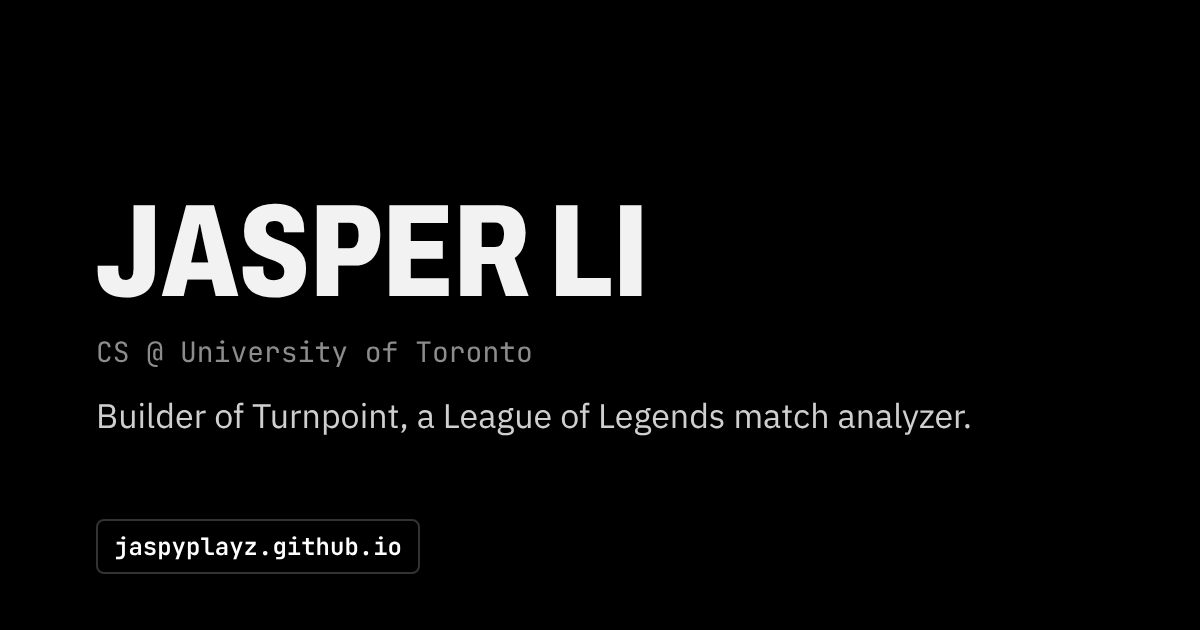
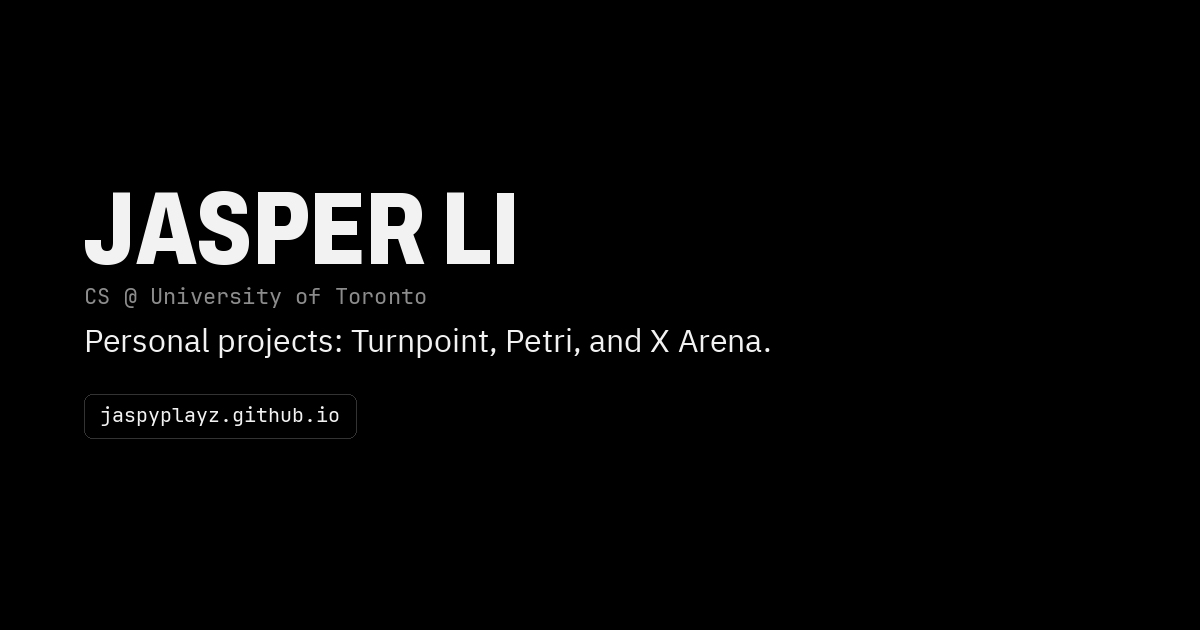
Tighten the portfolio layout and preview text.
Drop the repeated about line and the second GitHub link, show rank notes in the text, and keep one spacing rhythm. The social preview now names Turnpoint, Petri, and X Arena. Remove the unused hero image, which still showed the old match stats.

diff --git a/index.html b/index.html
@@ -11,23 +11,26 @@
 <meta property="og:type" content="website">
 <meta property="og:url" content="https://jaspyplayz.github.io/">
 <meta property="og:title" content="Jasper Li">
-<meta property="og:description" content="CS student at the University of Toronto. Personal projects: Turnpoint, Petri, and X Arena.">
+<meta property="og:description" content="Jasper Li, CS student at the University of Toronto. Personal projects: Turnpoint, Petri, and X Arena.">
 <meta property="og:image" content="https://jaspyplayz.github.io/img/og.png">
 <meta property="og:image:width" content="1200">
 <meta property="og:image:height" content="630">
+<meta property="og:image:alt" content="Jasper Li. Personal projects: Turnpoint, Petri, and X Arena.">
 <meta name="twitter:card" content="summary_large_image">
+<meta name="twitter:title" content="Jasper Li">
+<meta name="twitter:description" content="Jasper Li, CS student at the University of Toronto. Personal projects: Turnpoint, Petri, and X Arena.">
+<meta name="twitter:image" content="https://jaspyplayz.github.io/img/og.png">
 <link rel="preconnect" href="https://fonts.googleapis.com">
 <link rel="preconnect" href="https://fonts.gstatic.com" crossorigin>
 <link rel="stylesheet" href="https://fonts.googleapis.com/css2?family=Archivo:wdth,wght@62..125,400..800&family=IBM+Plex+Sans:wght@400;500;600&family=JetBrains+Mono:wght@400;600&display=swap">
 <style>
-/* All-black, single theme. One narrow column: header, a short bio, personal projects, skills. */
+/* All-black, one narrow column. Name, personal projects, ranks, skills. */
 :root {
   --bg: #000000;
   --surface: #0a0a0a;
   --ink: #f2f2f2;
   --muted: #8c8c8c;
   --line: #1f1f1f;
-  --gold: #ffffff;
   --display: "Archivo", "Arial Narrow", system-ui, sans-serif;
   --body: "IBM Plex Sans", system-ui, -apple-system, "Segoe UI", sans-serif;
   --mono: "JetBrains Mono", ui-monospace, SFMono-Regular, Menlo, monospace;
@@ -37,44 +40,42 @@
 html { color-scheme: dark; }
 body { margin: 0; background: var(--bg); color: var(--ink); font: 400 .95rem/1.55 var(--body); }
 img { max-width: 100%; }
-a { color: inherit; text-decoration-color: var(--gold); text-underline-offset: 3px; }
-a:hover { color: var(--gold); }
-a:focus-visible { outline: 2px solid var(--gold); outline-offset: 3px; border-radius: 4px; }
+a { color: inherit; text-decoration-color: #fff; text-underline-offset: 3px; }
+a:hover { color: #fff; }
+a:focus-visible { outline: 2px solid #fff; outline-offset: 3px; border-radius: 4px; }
 p { margin: 0; }
-h1, h2 { font-family: var(--display); margin: 0; text-wrap: balance; }
+h1, h3 { font-family: var(--display); margin: 0; text-wrap: balance; }
 
-main { max-width: 640px; margin: 0 auto; padding-block: 40px 32px; padding-left: max(16px, env(safe-area-inset-left, 0px)); padding-right: max(16px, env(safe-area-inset-right, 0px)); display: grid; gap: 28px; }
+main {
+  max-width: 640px;
+  margin: 0 auto;
+  padding: 48px max(20px, env(safe-area-inset-right, 0px)) 40px max(20px, env(safe-area-inset-left, 0px));
+  display: grid;
+  gap: 40px;
+}
 
-header { display: grid; gap: 8px; }
-header .contact { margin-top: 6px; }
+header { display: grid; gap: 16px; }
+.intro { display: grid; gap: 8px; }
 h1 { font-size: 2.4rem; font-weight: 800; font-stretch: 75%; line-height: 1; text-transform: uppercase; letter-spacing: .01em; }
-.sub { font: 400 .8rem/1.4 var(--mono); color: var(--muted); }
-.sub a { color: var(--gold); text-decoration: none; }
+.sub { font: 400 .8rem/1.45 var(--mono); color: var(--muted); }
 
-.label { font: 600 .68rem/1 var(--mono); letter-spacing: .14em; text-transform: uppercase; color: var(--muted); margin-bottom: 10px; }
-
-.about { max-width: 62ch; color: var(--muted); }
+h2.label { margin: 0 0 16px; font: 600 .68rem/1 var(--mono); letter-spacing: .14em; text-transform: uppercase; color: var(--muted); }
 
 .work { border-top: 1px solid var(--line); }
-.work article { display: grid; gap: 6px; padding: 16px 0; border-bottom: 1px solid var(--line); }
-.work .row { display: flex; justify-content: space-between; align-items: baseline; gap: 12px; flex-wrap: wrap; }
-h2 { font-size: 1.15rem; font-weight: 700; }
+.work article { display: grid; gap: 8px; padding: 16px 0; border-bottom: 1px solid var(--line); }
+h3 { font-size: 1.15rem; font-weight: 700; line-height: 1.2; }
 .work p { color: var(--muted); font-size: .9rem; }
-.meta, .links { font: 400 .75rem/1.4 var(--mono); color: var(--muted); }
-.links { display: flex; flex-wrap: wrap; gap: 4px 14px; }
+.meta, .links { font: 400 .75rem/1.45 var(--mono); color: var(--muted); }
+.meta { display: flex; flex-wrap: wrap; gap: 4px 12px; }
+.meta span { white-space: nowrap; }
+.links { display: flex; flex-wrap: wrap; gap: 4px 16px; }
 .links a { color: var(--ink); }
 
-.proud { display: grid; grid-template-columns: 7rem 1fr; gap: 16px; align-items: start; }
-.proud .label { margin: 4px 0 0; }
-.proud ul { list-style: none; margin: 0; padding: 0; display: grid; gap: 10px; font-size: 1.1rem; color: var(--ink); }
-.proud li { display: flex; align-items: flex-start; gap: 10px; }
-.proud li span { flex: 1; min-width: 0; }
-.info { position: relative; width: 22px; height: 22px; border-radius: 50%; border: 1px solid #333; background: var(--surface); color: var(--muted); font: 400 .72rem/1 var(--mono); cursor: help; padding: 0; display: inline-grid; place-items: center; }
-.info:hover, .info:focus-visible { color: var(--ink); border-color: #666; }
-.info::after { content: attr(data-tip); position: absolute; left: 50%; bottom: calc(100% + 8px); transform: translateX(-50%); white-space: nowrap; background: #1a1a1a; color: var(--ink); border: 1px solid #333; border-radius: 6px; padding: 6px 9px; font: 400 .75rem/1 var(--mono); opacity: 0; pointer-events: none; transition: opacity .12s; }
-.info:hover::after, .info:focus::after { opacity: 1; }
-@media (max-width: 480px) { .proud { grid-template-columns: 1fr; gap: 0; } }
-.chips { display: flex; flex-wrap: wrap; gap: 6px; list-style: none; margin: 0; padding: 0; }
+.ranks { list-style: none; margin: 0; padding: 0; display: grid; gap: 8px; }
+.ranks li { display: flex; flex-wrap: wrap; align-items: baseline; column-gap: 12px; row-gap: 2px; }
+.pct { font: 400 .75rem/1.45 var(--mono); color: var(--muted); }
+
+.chips { display: flex; flex-wrap: wrap; gap: 8px; list-style: none; margin: 0; padding: 0; }
 .chips li { font: 400 .75rem/1 var(--mono); padding: 6px 8px; border: 1px solid var(--line); border-radius: 4px; background: var(--surface); }
 
 .contact { display: flex; flex-wrap: wrap; gap: 8px; }
@@ -86,64 +87,60 @@ h2 { font-size: 1.15rem; font-weight: 700; }
 <body>
 <main>
   <header>
-    <h1>Jasper Li</h1>
-    <div class="sub">CS @ University of Toronto · <a href="https://github.com/Jaspyplayz" target="_blank" rel="noopener">github.com/Jaspyplayz</a></div>
+    <div class="intro">
+      <h1>Jasper Li</h1>
+      <p class="sub">CS @ University of Toronto<br>Looking for an internship</p>
+    </div>
     <div class="contact">
-      <a href="https://github.com/Jaspyplayz" target="_blank" rel="noopener"><svg class="ico" viewBox="0 0 24 24" aria-hidden="true"><path fill="currentColor" d="M12 .297c-6.63 0-12 5.373-12 12 0 5.303 3.438 9.8 8.205 11.385.6.113.82-.258.82-.577 0-.285-.01-1.04-.015-2.04-3.338.724-4.042-1.61-4.042-1.61C4.422 18.07 3.633 17.7 3.633 17.7c-1.087-.744.084-.729.084-.729 1.205.084 1.838 1.236 1.838 1.236 1.07 1.835 2.809 1.305 3.495.998.108-.776.417-1.305.76-1.605-2.665-.3-5.466-1.332-5.466-5.93 0-1.31.465-2.38 1.235-3.22-.135-.303-.54-1.523.105-3.176 0 0 1.005-.322 3.3 1.23.96-.267 1.98-.399 3-.405 1.02.006 2.04.138 3 .405 2.28-1.552 3.285-1.23 3.285-1.23.645 1.653.24 2.873.12 3.176.765.84 1.23 1.91 1.23 3.22 0 4.61-2.805 5.625-5.475 5.92.42.36.81 1.096.81 2.22 0 1.606-.015 2.896-.015 3.286 0 .315.21.69.825.57C20.565 22.092 24 17.592 24 12.297c0-6.627-5.373-12-12-12"/></svg>GitHub</a>
-      <a href="https://www.linkedin.com/in/jasper-li-567560349" target="_blank" rel="noopener"><svg class="ico" viewBox="0 0 24 24" aria-hidden="true"><path fill="currentColor" d="M20.447 20.452h-3.554v-5.569c0-1.328-.027-3.037-1.852-3.037-1.853 0-2.136 1.445-2.136 2.939v5.667H9.351V9h3.414v1.561h.046c.477-.9 1.637-1.85 3.37-1.85 3.601 0 4.267 2.37 4.267 5.455v6.286zM5.337 7.433c-1.144 0-2.063-.926-2.063-2.065 0-1.138.92-2.063 2.063-2.063 1.14 0 2.064.925 2.064 2.063 0 1.139-.925 2.065-2.064 2.065zm1.782 13.019H3.555V9h3.564v11.452zM22.225 0H1.771C.792 0 0 .774 0 1.729v20.542C0 23.227.792 24 1.771 24h20.451C23.2 24 24 23.227 24 22.271V1.729C24 .774 23.2 0 22.222 0h.003z"/></svg>LinkedIn</a>
+      <a href="https://github.com/Jaspyplayz" target="_blank" rel="noopener noreferrer"><svg class="ico" viewBox="0 0 24 24" aria-hidden="true"><path fill="currentColor" d="M12 .297c-6.63 0-12 5.373-12 12 0 5.303 3.438 9.8 8.205 11.385.6.113.82-.258.82-.577 0-.285-.01-1.04-.015-2.04-3.338.724-4.042-1.61-4.042-1.61C4.422 18.07 3.633 17.7 3.633 17.7c-1.087-.744.084-.729.084-.729 1.205.084 1.838 1.236 1.838 1.236 1.07 1.835 2.809 1.305 3.495.998.108-.776.417-1.305.76-1.605-2.665-.3-5.466-1.332-5.466-5.93 0-1.31.465-2.38 1.235-3.22-.135-.303-.54-1.523.105-3.176 0 0 1.005-.322 3.3 1.23.96-.267 1.98-.399 3-.405 1.02.006 2.04.138 3 .405 2.28-1.552 3.285-1.23 3.285-1.23.645 1.653.24 2.873.12 3.176.765.84 1.23 1.91 1.23 3.22 0 4.61-2.805 5.625-5.475 5.92.42.36.81 1.096.81 2.22 0 1.606-.015 2.896-.015 3.286 0 .315.21.69.825.57C20.565 22.092 24 17.592 24 12.297c0-6.627-5.373-12-12-12"/></svg>GitHub</a>
+      <a href="https://www.linkedin.com/in/jasper-li-567560349" target="_blank" rel="noopener noreferrer"><svg class="ico" viewBox="0 0 24 24" aria-hidden="true"><path fill="currentColor" d="M20.447 20.452h-3.554v-5.569c0-1.328-.027-3.037-1.852-3.037-1.853 0-2.136 1.445-2.136 2.939v5.667H9.351V9h3.414v1.561h.046c.477-.9 1.637-1.85 3.37-1.85 3.601 0 4.267 2.37 4.267 5.455v6.286zM5.337 7.433c-1.144 0-2.063-.926-2.063-2.065 0-1.138.92-2.063 2.063-2.063 1.14 0 2.064.925 2.064 2.063 0 1.139-.925 2.065-2.064 2.065zm1.782 13.019H3.555V9h3.564v11.452zM22.225 0H1.771C.792 0 0 .774 0 1.729v20.542C0 23.227.792 24 1.771 24h20.451C23.2 24 24 23.227 24 22.271V1.729C24 .774 23.2 0 22.222 0h.003z"/></svg>LinkedIn</a>
       <a href="mailto:jaspyplayz@gmail.com">jaspyplayz@gmail.com</a>
     </div>
   </header>
 
-  <section>
-    <div class="label">About</div>
-    <p class="about">Computer science student at the University of Toronto, looking for an internship.</p>
-  </section>
-
-  <section class="proud">
-    <div class="label">Proud of!</div>
-    <ul>
-      <li><span>Peaked Grandmaster in League of Legends</span> <button class="info" type="button" aria-label="Top 0.07% of players" data-tip="Top 0.07% of players">i</button></li>
-      <li><span>Peaked Eternity in Marvel Rivals</span> <button class="info" type="button" aria-label="Top 0.15% of players" data-tip="Top 0.15% of players">i</button></li>
-    </ul>
-  </section>
-
-  <section>
-    <div class="label">Personal projects</div>
+  <section aria-labelledby="projects-label">
+    <h2 id="projects-label" class="label">Personal projects</h2>
     <div class="work">
       <article>
-        <div class="row"><h2>Turnpoint</h2></div>
+        <h3>Turnpoint</h3>
         <p>League of Legends match analyzer with AI recaps.</p>
         <p class="meta">Next.js, TypeScript, Supabase</p>
         <p class="links">
-          <a href="https://league-web-app.vercel.app" target="_blank" rel="noopener">Live</a>
-          <a href="https://github.com/Jaspyplayz/League-Web-App" target="_blank" rel="noopener">Code</a>
+          <a href="https://league-web-app.vercel.app" target="_blank" rel="noopener noreferrer">Live</a>
+          <a href="https://github.com/Jaspyplayz/League-Web-App" target="_blank" rel="noopener noreferrer">Code</a>
         </p>
       </article>
       <article>
-        <div class="row"><h2>Petri</h2></div>
+        <h3>Petri</h3>
         <p>Self-evolving web app built by AI agents.</p>
         <p class="meta">Next.js, TypeScript</p>
         <p class="links">
-          <a href="https://petri-pi.vercel.app" target="_blank" rel="noopener">Live</a>
-          <a href="https://github.com/Jaspyplayz/petri" target="_blank" rel="noopener">Code</a>
+          <a href="https://petri-pi.vercel.app" target="_blank" rel="noopener noreferrer">Live</a>
+          <a href="https://github.com/Jaspyplayz/petri" target="_blank" rel="noopener noreferrer">Code</a>
         </p>
       </article>
       <article>
-        <div class="row"><h2>X Arena</h2><span class="meta">Sep 2026 – Present</span></div>
+        <h3>X Arena</h3>
         <p>Multiplayer arena shooter on Roblox. FPS movement, server-validated hitboxes, and lag compensation.</p>
-        <p class="meta">Luau, Rojo, GitHub Actions</p>
+        <p class="meta"><span>Luau, Rojo, GitHub Actions</span><span>Sep 2026 – Present</span></p>
       </article>
     </div>
   </section>
 
-  <section>
-    <div class="label">Skills</div>
+  <section aria-labelledby="ranks-label">
+    <h2 id="ranks-label" class="label">Ranks</h2>
+    <ul class="ranks">
+      <li>Peaked Grandmaster in League of Legends <span class="pct">Top 0.07% of players</span></li>
+      <li>Peaked Eternity in Marvel Rivals <span class="pct">Top 0.15% of players</span></li>
+    </ul>
+  </section>
+
+  <section aria-labelledby="skills-label">
+    <h2 id="skills-label" class="label">Skills</h2>
     <ul class="chips">
       <li>TypeScript</li><li>Python</li><li>Next.js</li><li>React</li><li>Tailwind CSS</li><li>Postgres</li><li>Supabase</li><li>Drizzle</li><li>Vitest</li><li>Playwright</li><li>GitHub Actions</li><li>Vercel</li><li>Luau</li><li>Rojo</li>
     </ul>
   </section>
-
 </main>
 </body>
 </html>
